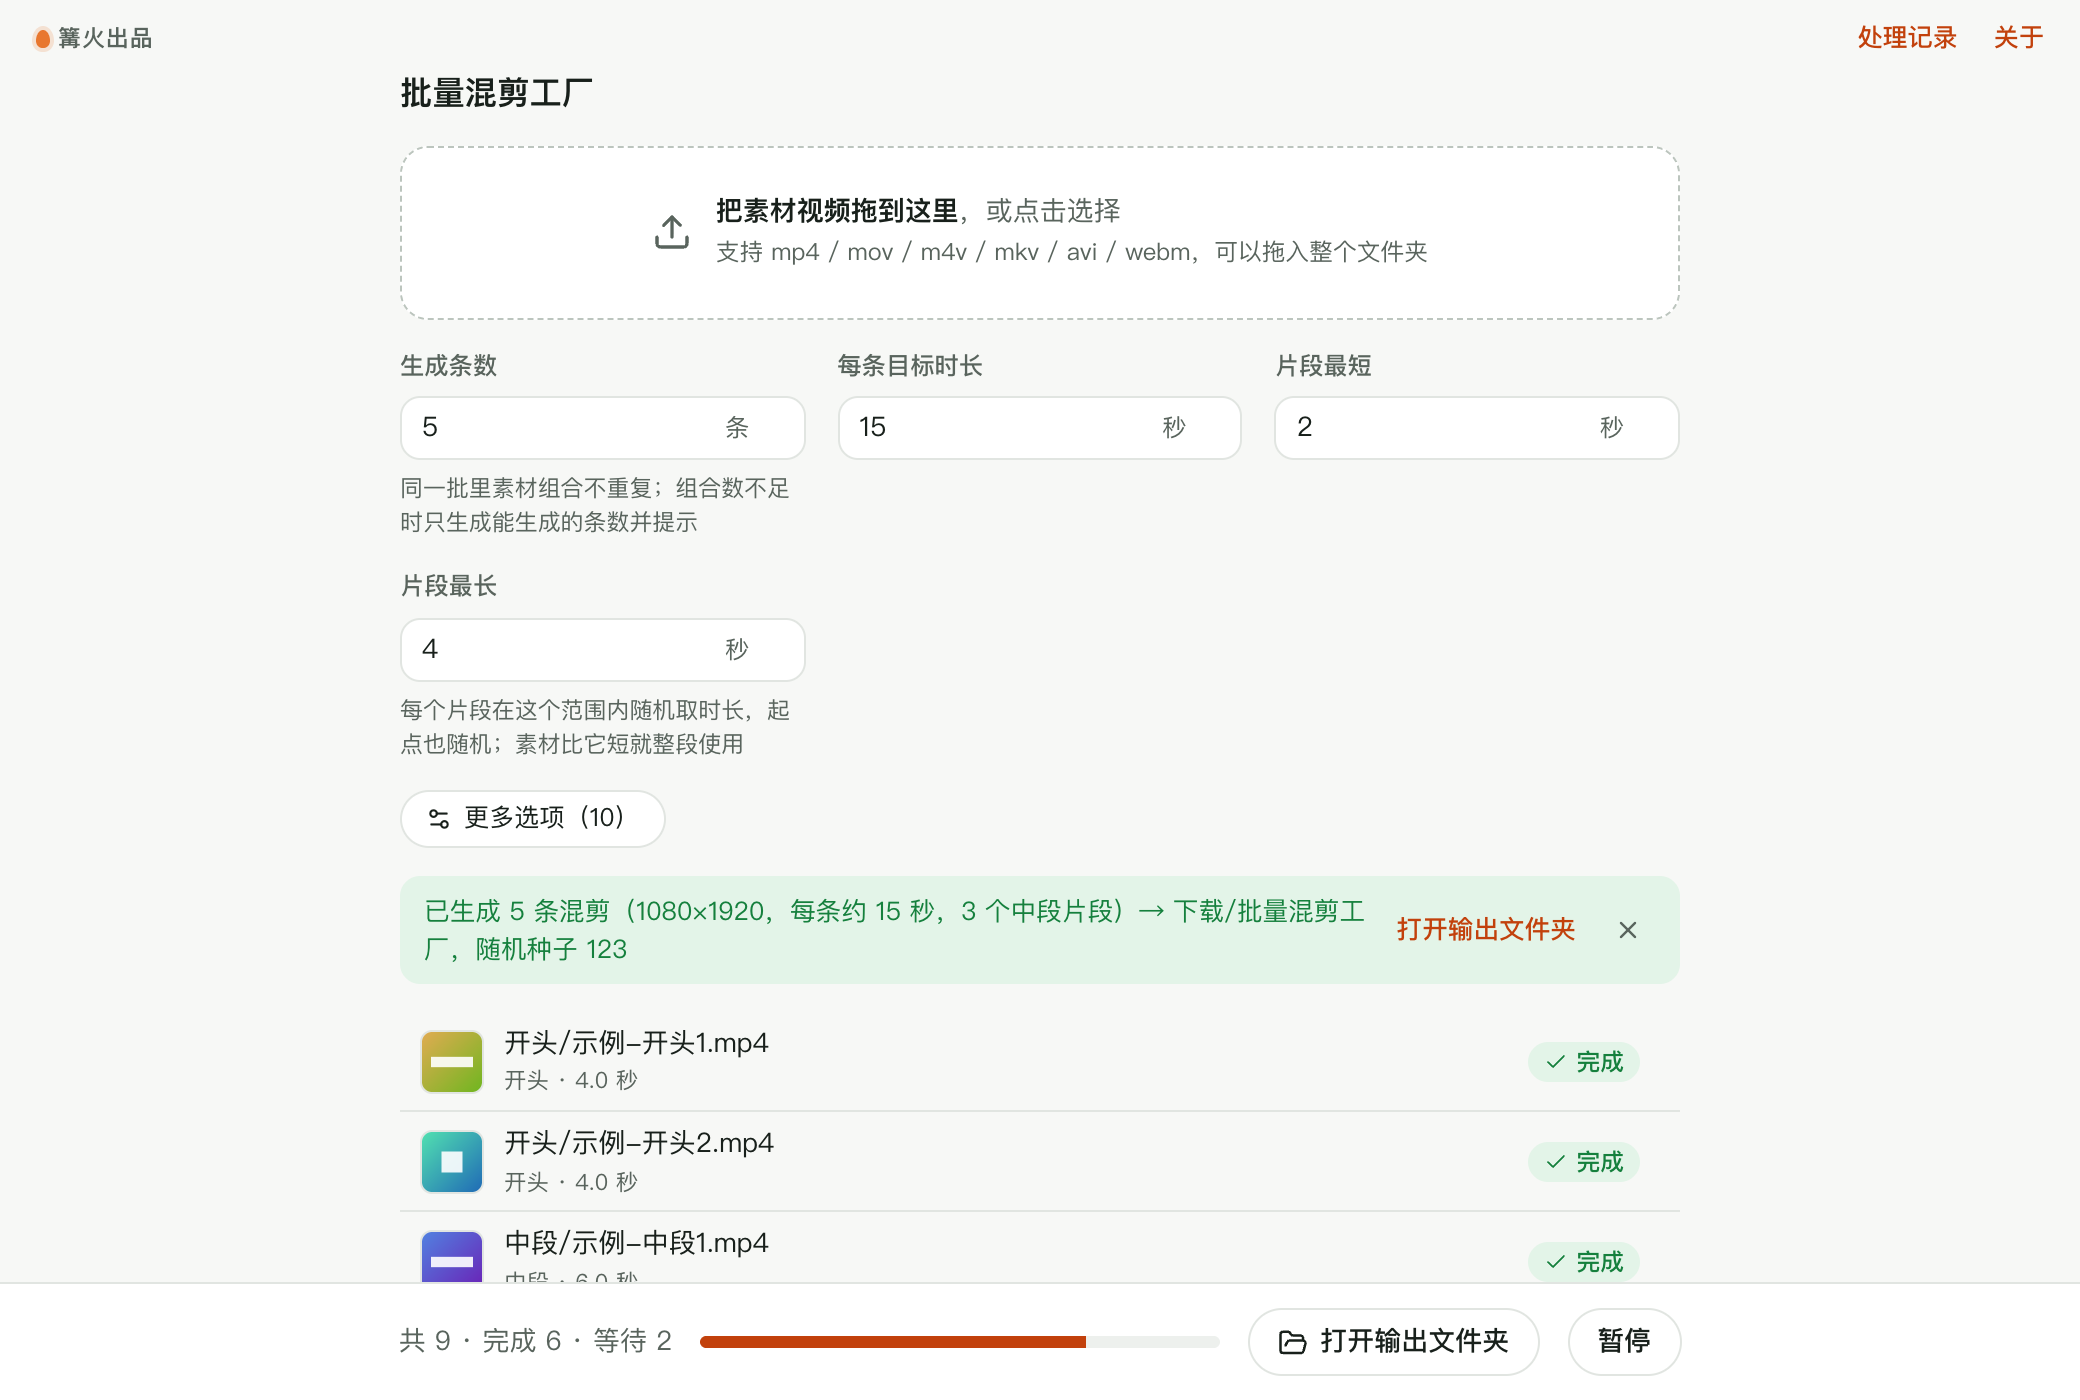
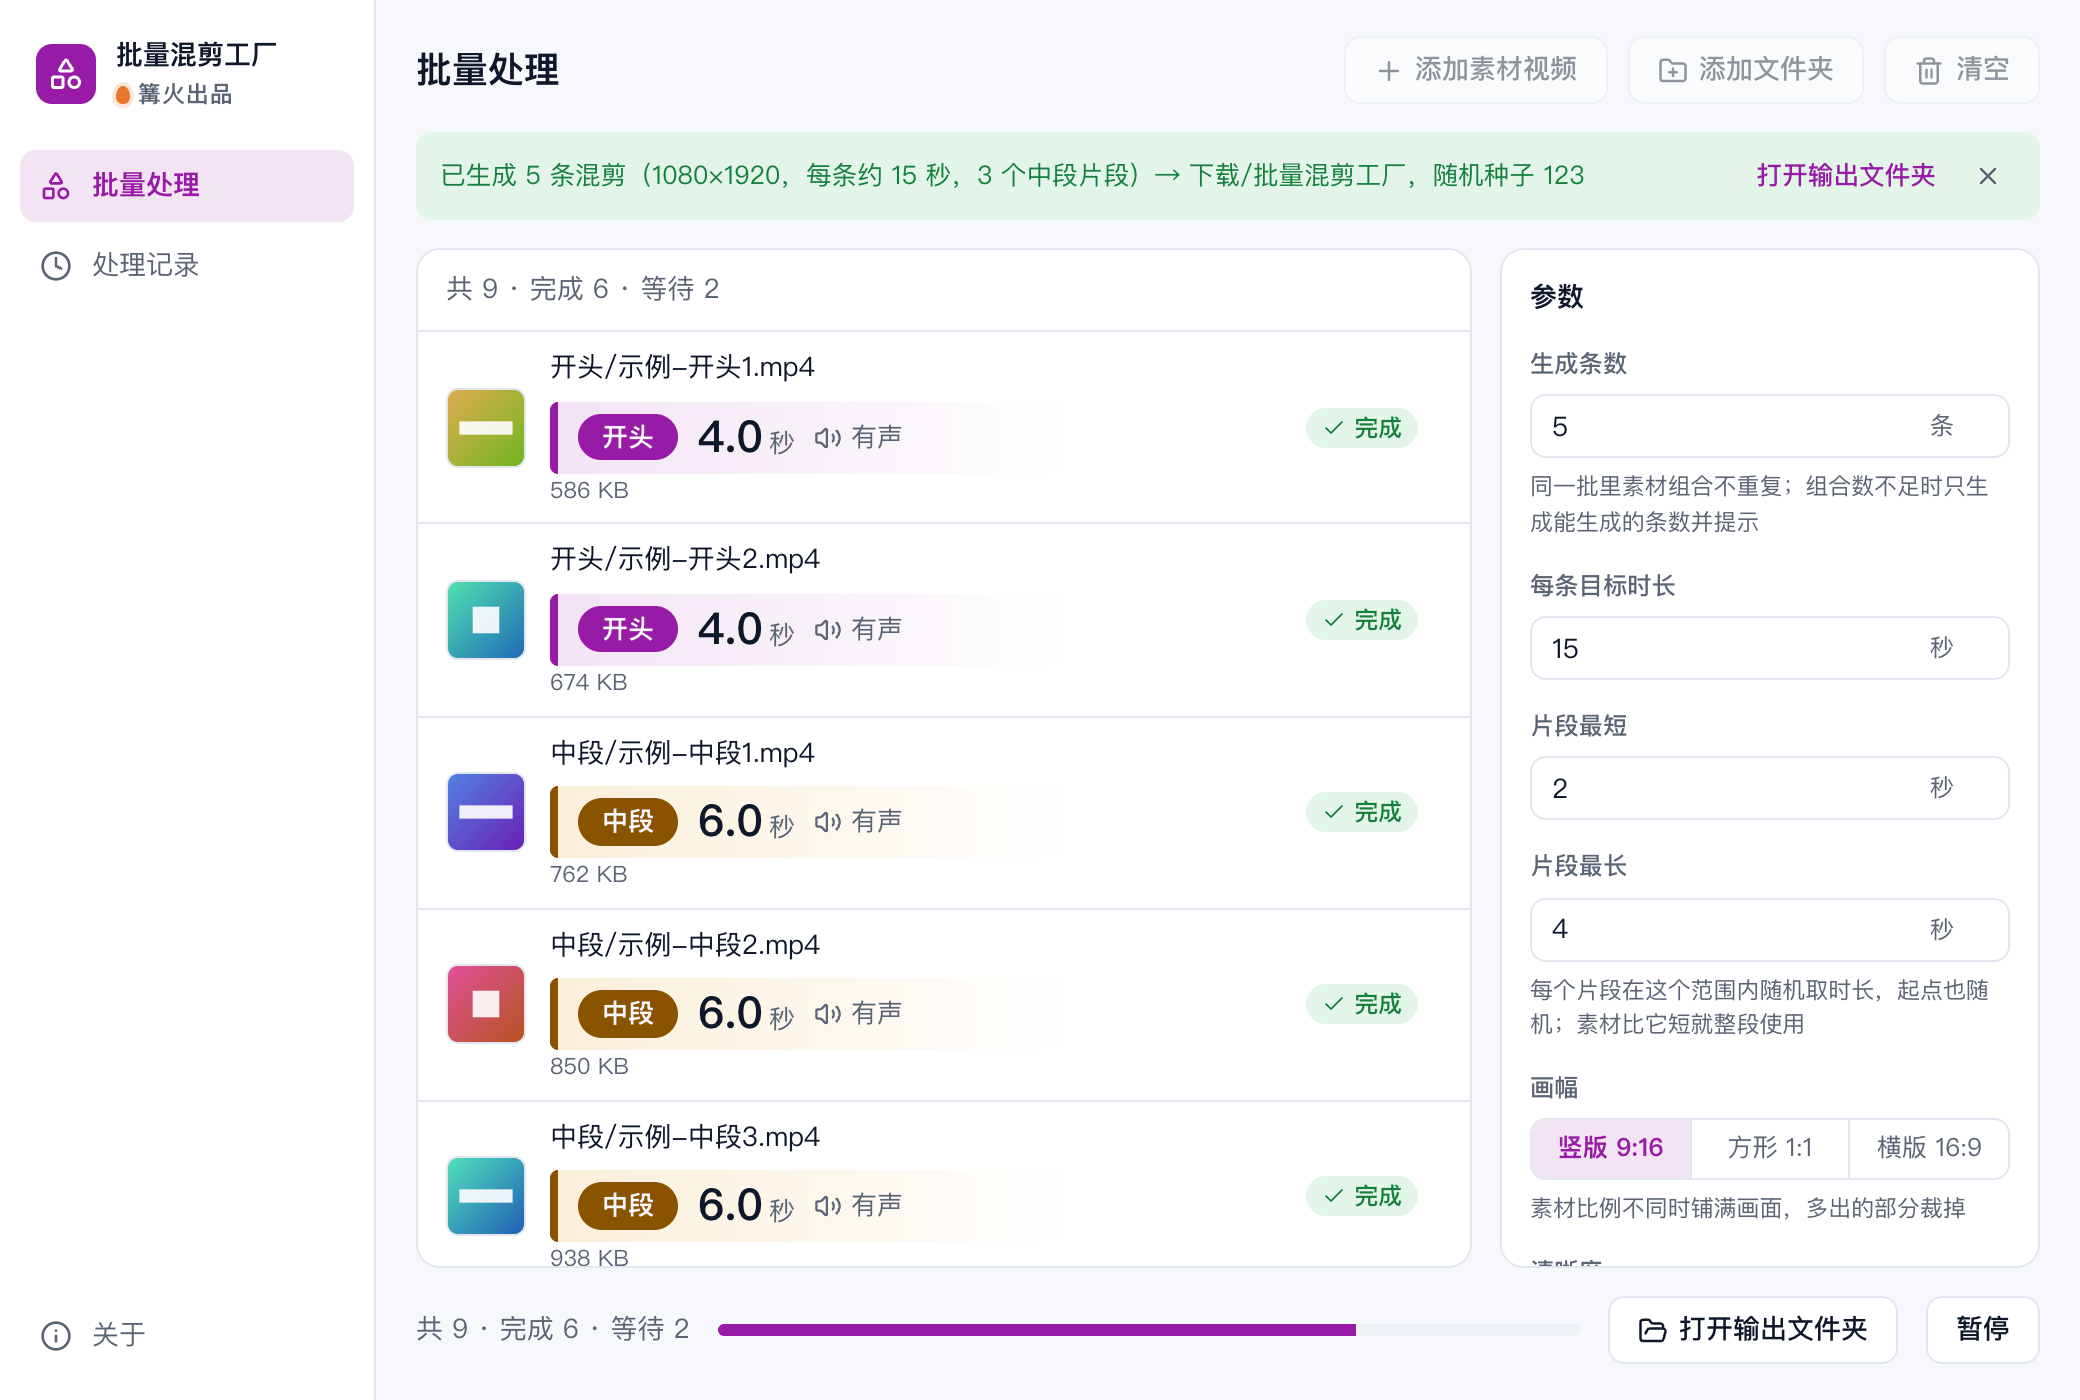
0.2.0：侧栏版式，素材分段标签，新空状态，全中文

diff --git a/src/tool/view.tsx b/src/tool/view.tsx
@@ -1,0 +1,59 @@
+// 素材卡片（登记结果）与空状态示意
+import { Volume2, VolumeX } from 'lucide-react';
+import type { InputItem, ItemResult } from '../kit/types';
+import { groupOf } from './core';
+import './view.css';
+
+const LABEL = { head: '开头', mid: '中段', tail: '结尾' } as const;
+
+export function ResultBody({ result }: { item: InputItem; result: ItemResult }) {
+  const d = result.data as { path: string; duration: number; hasAudio: boolean } | undefined;
+  if (!d) return <span className="vr-plain">{result.summary}</span>;
+  const g = groupOf(d.path);
+  return (
+    <div className={`vr-strip g-${g}`}>
+      <span className="vr-tag">{LABEL[g]}</span>
+      <span className="vr-dur"><b className="k-num">{d.duration.toFixed(1)}</b><small>秒</small></span>
+      <span className="vr-audio" title={d.hasAudio ? '有音轨' : '没有音轨，合成时补静音'}>{d.hasAudio ? <Volume2 size={14} /> : <VolumeX size={14} />}{d.hasAudio ? '有声' : '无声，补静音'}</span>
+    </div>
+  );
+}
+
+const Reel = ({ x, y, parts }: { x: number; y: number; parts: ('h' | 'm' | 't')[] }) => {
+  let at = x;
+  return (
+    <g>
+      <rect x={x - 6} y={y - 6} width={176} height={32} rx={8} className="v-box" />
+      {parts.map((p, i) => {
+        const w = p === 'm' ? 36 : 30;
+        const r = <rect key={i} x={at} y={y} width={w - 3} height={20} rx={4} className={`v-${p}`} />;
+        at += w;
+        return r;
+      })}
+    </g>
+  );
+};
+
+export function Empty({ hover }: { hover: boolean }) {
+  return (
+    <div className={`vr-empty${hover ? ' hover' : ''}`}>
+      <svg className="vr-art" viewBox="0 0 560 220" role="img" aria-label="三个文件夹里的素材随机拼成多条不同的短视频">
+        {([['开头', 'h', 2], ['中段', 'm', 4], ['结尾', 't', 2]] as const).map(([label, k, n], i) => (
+          <g key={label} transform={`translate(${i * 84} 0)`}>
+            <text x="34" y="26" textAnchor="middle" className="v-title">{label}</text>
+            {Array.from({ length: n }, (_, j) => <rect key={j} x="6" y={38 + j * 36} width="56" height="28" rx="6" className={`v-${k}`} style={{ opacity: 1 - j * 0.15 }} />)}
+            <text x="34" y="205" textAnchor="middle" className="v-sub">{n} 个素材</text>
+          </g>
+        ))}
+        <g className="v-arrow"><path d="M268 110h44" /><path d="M303 100l11 10-11 10" /></g>
+        <text x="454" y="26" textAnchor="middle" className="v-title">每次随机抽取</text>
+        <Reel x={366} y={46} parts={['h', 'm', 'm', 'm', 't']} />
+        <Reel x={366} y={96} parts={['h', 'm', 'm', 'm', 't']} />
+        <Reel x={366} y={146} parts={['h', 'm', 'm', 'm', 't']} />
+        <text x="454" y="205" textAnchor="middle" className="v-sub">几十条组合各不相同</text>
+      </svg>
+      <h2>素材分三段，随机拼出一批短视频</h2>
+      <p>把素材放进名字带「开头」「中段」「结尾」的三个文件夹，一起拖进来。每条成片先放一个开头，再随机取几个中段，最后接结尾。</p>
+    </div>
+  );
+}

diff --git a/src/tool/view.css b/src/tool/view.css
@@ -1,0 +1,24 @@
+/* 素材卡片与空状态：颜色取外壳令牌，开头 / 中段 / 结尾用三种语义色区分 */
+.g-head { --g: var(--primary); --gs: var(--primary-soft); --gi: var(--bg); }
+.g-mid { --g: var(--warn); --gs: var(--warn-soft); --gi: var(--bg); }
+.g-tail { --g: var(--ok); --gs: var(--ok-soft); --gi: var(--bg); }
+.vr-strip { display: flex; align-items: center; gap: 10px; min-height: 36px; padding: 2px 10px 2px 0; border-left: 4px solid var(--g); padding-left: 10px; background: linear-gradient(90deg, var(--gs), transparent 70%); border-radius: 4px; }
+.vr-tag { padding: 2px 12px; border-radius: var(--radius-pill); background: var(--g); color: var(--gi); font-size: 13px; font-weight: 600; flex: none; }
+.vr-dur { display: flex; align-items: baseline; gap: 3px; color: var(--ink); flex: none; }
+.vr-dur b { font-size: 22px; line-height: 1.1; font-weight: 700; }
+.vr-dur small { font-size: 13px; color: var(--muted); }
+.vr-audio { display: flex; align-items: center; gap: 4px; font-size: 13px; color: var(--muted); }
+.vr-plain { font-size: 13px; color: var(--muted); }
+
+.vr-empty { display: grid; justify-items: center; gap: 10px; padding: 28px; text-align: center; max-width: 660px; margin: 0 auto; }
+.vr-empty h2 { margin: 6px 0 0; font-size: 22px; font-weight: 700; }
+.vr-empty p { margin: 0; max-width: 500px; color: var(--muted); line-height: 1.7; font-size: 14px; }
+.vr-art { width: min(100%, 560px); height: auto; transition: transform .2s var(--ease); }
+.vr-empty.hover .vr-art { transform: scale(1.03); }
+.vr-art .v-h { fill: var(--primary); }
+.vr-art .v-m { fill: var(--warn); }
+.vr-art .v-t { fill: var(--ok); }
+.vr-art .v-title { fill: var(--ink); font-size: 14px; font-weight: 600; font-family: var(--font); }
+.vr-art .v-sub { fill: var(--muted); font-size: 13px; font-family: var(--font); }
+.vr-art .v-box { fill: var(--surface); stroke: var(--line-strong); stroke-width: 1.2; }
+.vr-art .v-arrow path { fill: none; stroke: var(--muted); stroke-width: 3; stroke-linecap: round; stroke-linejoin: round; }

diff --git a/src/tool/index.ts b/src/tool/index.ts
@@ -8,6 +8,7 @@ import {
   type Clip, type RatioKey, type ResKey, type SubPos,
 } from './core';
 import { renderSubtitlePng } from './subtitleImage';
+import { Empty, ResultBody } from './view';
 
 async function removeQuiet(path: string) {
   try {
@@ -34,10 +35,12 @@ const tool: ToolDef = {
   type: 'media',
   icon: Shapes,
   mode: 'batch',
-  resultView: 'list',
+  resultView: 'cards',
+  Empty,
+  ResultBody,
   concurrency: 3,
   accept: { label: '素材视频', extensions: VIDEO_EXTS },
-  check: (item) => (VIDEO_EXTS.includes(ext(item.name)) ? null : '不是支持的视频格式（支持 MP4、MOV、M4V、MKV、AVI、WEBM）'),
+  check: (item) => (VIDEO_EXTS.includes(ext(item.name)) ? null : '不是支持的视频格式，请换成 MP4、MOV 或 WebM'),
   params: [
     { key: 'count', label: '生成条数', type: 'number', default: 5, min: 1, max: 200, step: 1, unit: '条', help: '同一批里素材组合不重复；组合数不足时只生成能生成的条数并提示' },
     { key: 'total', label: '每条目标时长', type: 'number', default: 15, min: 3, max: 120, step: 1, unit: '秒' },

diff --git a/src/tool/preview.ts b/src/tool/preview.ts
@@ -35,7 +35,7 @@ export const rows = (state: string): Row[] =>
       item: { id: `v${i}`, name, path: thumb(hue, i), size: 600_000 + i * 90_000 },
       status,
       progress: status === 'run' ? 0.5 : status === 'ok' ? 1 : 0,
-      result: status === 'ok' ? { summary: `${group} · ${secs.toFixed(1)} 秒${name.includes('无音轨') ? ' · 无音轨' : ''}` } : undefined,
+      result: status === 'ok' ? { data: { path: `/示例/${name}`, duration: secs, hasAudio: !name.includes('无音轨') }, summary: `${group} · ${secs.toFixed(1)} 秒${name.includes('无音轨') ? ' · 无音轨' : ''}` } : undefined,
     };
   });
 

diff --git a/CHANGELOG.md b/CHANGELOG.md
@@ -1,5 +1,12 @@
 # 更新记录
 
+## 0.2.0
+
+- 换成侧栏版式，主色改为紫红。
+- 素材登记后，每行用「开头 / 中段 / 结尾」三种颜色的标签，配大字时长和有无音轨。
+- 空状态改成示意图：三个文件夹的素材，随机拼成多条不同的短视频。
+- 不支持的格式提示改成中文。
+
 ## 0.1.0
 
 - 首个版本。
